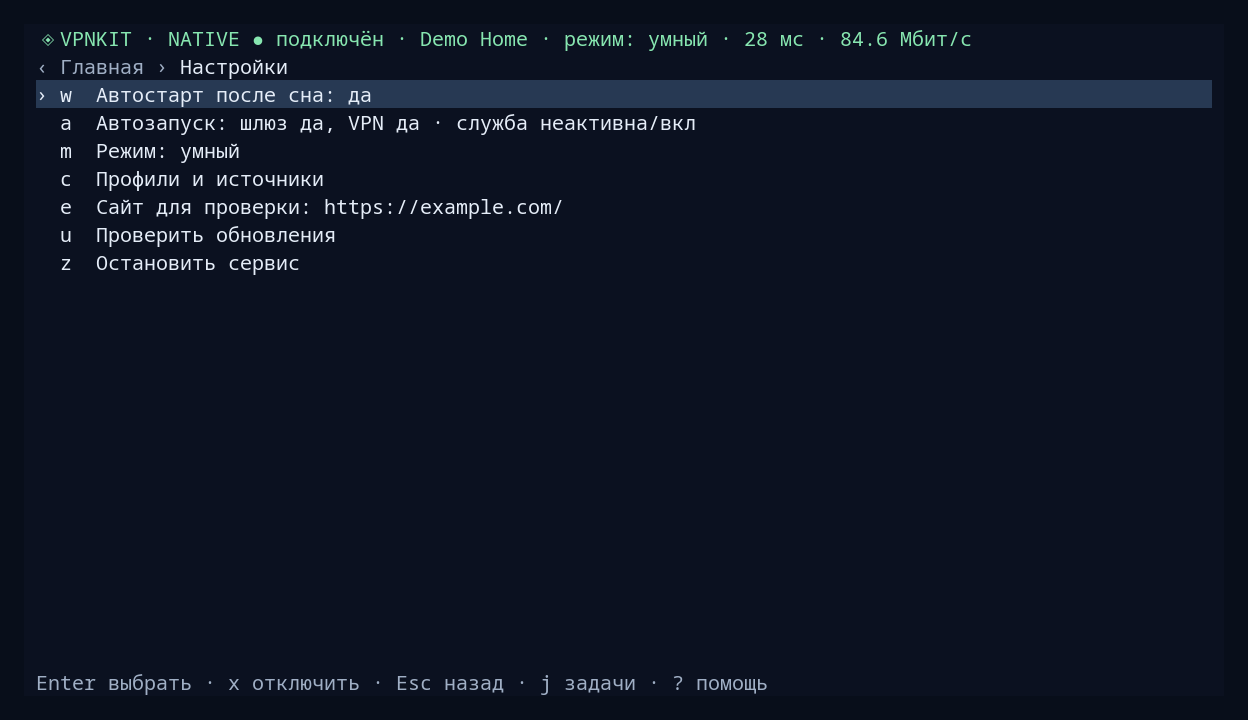
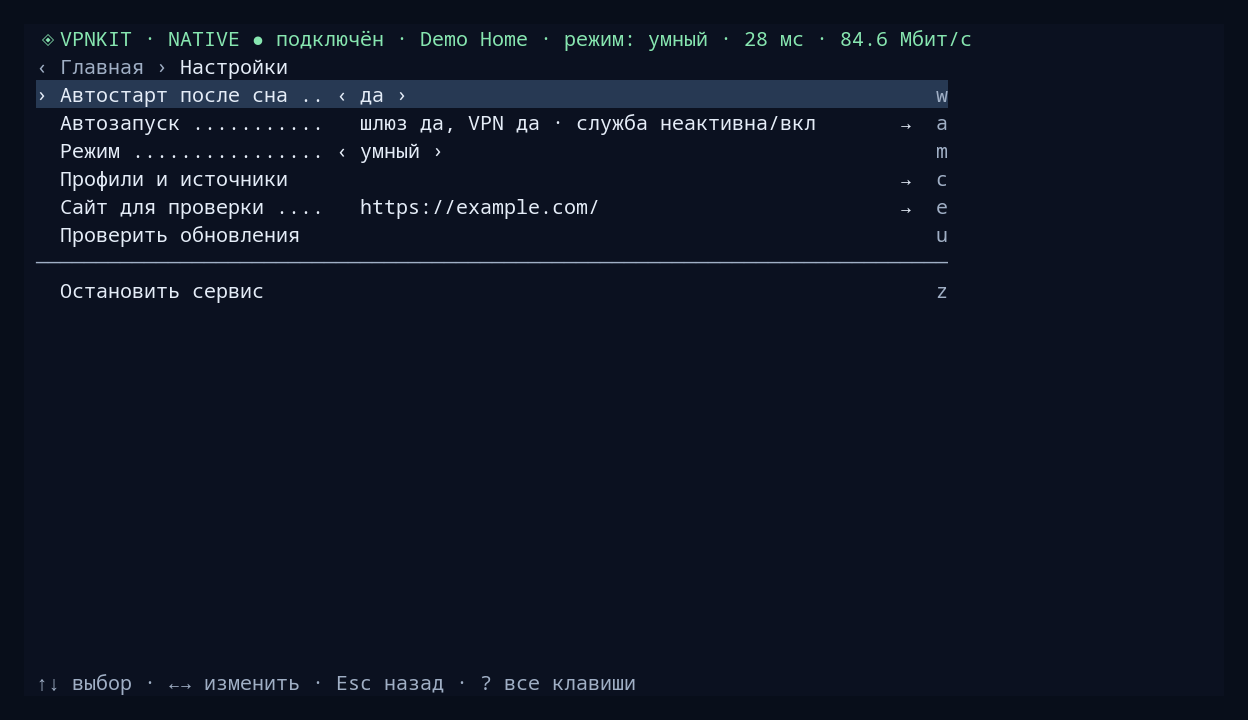
feat(tui): five centred home tiles without «Замеры»; refresh README captures

diff --git a/scripts/vpnkit/tui/home-view.ts b/scripts/vpnkit/tui/home-view.ts
@@ -1,7 +1,10 @@
 import { BoxRenderable, TextAttributes, TextRenderable, type CliRenderer } from "@opentui/core";
-import type { AppState } from "./app-state";
+import { HOME_TILES, type AppState } from "./app-state";
 import { cell, displayCheckAddress, pluralRu } from "./formatting";
 import { connection, palette as p } from "./model";
+
+const TILES = HOME_TILES.length;
+const LAST = TILES - 1;
 
 export class HomeView {
   private root: BoxRenderable;
@@ -15,7 +18,7 @@ export class HomeView {
     for (let i = 0; i < 6; i++) { const row = new BoxRenderable(renderer, { flexDirection: "row", flexShrink: 0 }); this.root.add(row); this.rows.push(row); }
     this.more = new TextRenderable(renderer, { content: "", height: 1, flexShrink: 0, fg: p.muted, visible: false });
     this.root.add(this.more);
-    for (let i = 0; i < 6; i++) {
+    for (let i = 0; i < TILES; i++) {
       const box = new BoxRenderable(renderer, { flexDirection: "column", flexGrow: 1, flexBasis: 0, minWidth: 0, border: true, borderStyle: "rounded", onMouseDown: e => { if (e.button === 0) activate(i); } });
       const title = new TextRenderable(renderer, { height: 1, fg: p.text, attributes: TextAttributes.BOLD }); box.add(title);
       const lines = [0, 1, 2, 3].map(() => { const line = new TextRenderable(renderer, { height: 1, fg: p.muted }); box.add(line); return line; });
@@ -25,7 +28,7 @@ export class HomeView {
   update(state: AppState, visible: boolean) {
     this.root.visible = visible;
     if (!visible) return;
-    const cols = state.homeColumns(), rowsTotal = Math.ceil(6 / cols);
+    const cols = state.homeColumns(), rowsTotal = Math.ceil(TILES / cols);
     // Full tiles take five rows, compact four, title-only three. Header, footer and
     // a two-line notice take four; when even title-only rows do not fit, scroll.
     const room = this.renderer.height - 2 - (state.noticeReserved() ? 2 : 0);
@@ -38,7 +41,7 @@ export class HomeView {
     if (selectedRow < this.firstRow) this.firstRow = selectedRow;
     if (selectedRow >= this.firstRow + visibleRows) this.firstRow = selectedRow - visibleRows + 1;
     this.firstRow = Math.max(0, Math.min(this.firstRow, rowsTotal - visibleRows));
-    const above = this.firstRow * cols, below = Math.max(0, 6 - (this.firstRow + visibleRows) * cols);
+    const above = this.firstRow * cols, below = Math.max(0, TILES - (this.firstRow + visibleRows) * cols);
     this.more.visible = !fitsAll;
     this.more.content = [above && `↑ ещё ${above}`, below && `↓ ещё ${below}`].filter(Boolean).join(" · ");
     const selected = state.catalogLoaded && !state.catalogStale ? state.servers.find(s => s.selected) : undefined;
@@ -50,16 +53,17 @@ export class HomeView {
     const actions = state.actions();
     const lifecycle = actions.find(a => ["home:connect", "home:start-service", "home:x"].includes(a.id));
     const lifecycleTask = [...state.tasks.values()].find(task => ["backend/start", "start", "disconnect", "stop"].includes(task.action));
-    const glyphs = ["▶", "≡", "•", "◇", "+", "*"];
+    const glyphs = ["▶", "≡", "◇", "+", "*"];
     const data = [
       ["Подключение", lifecycleTask ? state.actionLabel(lifecycleTask.action) : connection(state.status).title, `Enter — ${lifecycle?.label ?? "—"}`],
       ["Серверы", `${state.catalogLoaded && !state.catalogStale ? `${state.servers.length} ${pluralRu(state.servers.length, ["сервер", "сервера", "серверов"])}` : "— серверов"} · выбран: ${selected?.display_name ?? "—"}`, `Лучший ping: ${best ? `${best.display_name} · ${best.latency_ms} мс` : "—"}`],
-      ["Замеры", state.batch ? `Выполняется ${state.batch.done}/${state.batch.total}` : state.measurementAction ? "Выполняется замер" : "Замеров нет", `В очереди: ${state.queue.filter(q => q.kind === "batch" || q.kind === "home" || q.action.startsWith("servers/")).length}`],
       ["Профили", state.profiles ? `${state.profiles.items.length} ${pluralRu(state.profiles.items.length, ["профиль", "профиля", "профилей"])}` : "Профилей: —", `Активен: ${profile?.name ?? "—"}`],
       ["Диагностика", `Шлюз: ${health[gateway ?? ""] ?? "—"}`, `Сеть: ${state.status?.networkmanager_active === "yes" ? "активна" : state.status?.networkmanager_active === "no" ? "отключена" : "—"}`],
       ["Настройки", `Режим: ${mode} · автозапуск: ${state.autostart ? (state.autostart.connect ? "VPN" : state.autostart.gateway ? "шлюз" : "нет") : "—"}`, `Сайт: ${state.target ? displayCheckAddress(state.target) : "не задан"}`],
     ];
-    const width = Math.floor((this.renderer.width - 2) / cols) - 2;
+    // The last row may hold fewer tiles, which then grow wider.
+    const tileWidth = (i: number) => Math.floor((this.renderer.width - 2) / Math.min(cols, TILES - Math.floor(i / cols) * cols)) - 2;
+    const width = tileWidth(LAST);
     // Preserve the redacted address and complete status when extra rows are available.
     const wrap = (text: string): string[] => {
       const lines: string[] = [];
@@ -76,9 +80,9 @@ export class HomeView {
       if (line) lines.push(line);
       return lines;
     };
-    const settingsLines = compact ? [data[5]![1]!] : [...wrap(data[5]![1]!), ...wrap(data[5]![2]!)];
-    const extra = compact ? 0 : Math.min(2, Math.max(0, this.renderer.height - (6 / cols * 5) - 2), Math.max(0, settingsLines.length - 2));
-    this.rows.forEach((row, i) => { row.visible = i >= this.firstRow && i < this.firstRow + visibleRows; row.height = compact ? tileHeight : 5 + (i === Math.floor(5 / cols) ? extra : 0); });
+    const settingsLines = compact ? [data[LAST]![1]!] : [...wrap(data[LAST]![1]!), ...wrap(data[LAST]![2]!)];
+    const extra = compact ? 0 : Math.min(2, Math.max(0, this.renderer.height - (rowsTotal * 5) - 2), Math.max(0, settingsLines.length - 2));
+    this.rows.forEach((row, i) => { row.visible = i >= this.firstRow && i < this.firstRow + visibleRows; row.height = compact ? tileHeight : 5 + (i === Math.floor(LAST / cols) ? extra : 0); });
     // Rebuild every row when the column count changes: appending only the moved
     // tiles would leave them after the ones that stayed, out of navigation order.
     if (cols !== this.columns) {
@@ -87,13 +91,15 @@ export class HomeView {
       this.tiles.forEach((tile, i) => this.rows[Math.floor(i / cols)]!.add(tile.box));
     }
     this.tiles.forEach((tile, i) => {
-      tile.box.height = compact ? tileHeight : 5 + (Math.floor(i / cols) === Math.floor(5 / cols) ? extra : 0); tile.box.borderColor = i === state.homeIndex ? p.accent : p.edge;
-      const title = `${i === state.homeIndex ? "›" : " "} ${glyphs[i]} ${data[i]![0]!}`;
-      // Tiles are chosen with arrows; their letter shortcuts live in the «Клавиши» window.
-      tile.title.content = cell(title, width).trimEnd();
+      tile.box.height = compact ? tileHeight : 5 + (Math.floor(i / cols) === Math.floor(LAST / cols) ? extra : 0); tile.box.borderColor = i === state.homeIndex ? p.accent : p.edge;
+      // Centred tiles: the highlighted border and title colour mark the selection, so no cursor glyph.
+      // Letter shortcuts are not drawn; they live in the «Клавиши» window.
+      const own = tileWidth(i);
+      const center = (text: string) => { const fitted = cell(text, own).trimEnd(); return " ".repeat(Math.max(0, Math.floor((own - Bun.stringWidth(fitted)) / 2))) + fitted; };
+      tile.title.content = center(`${glyphs[i]} ${data[i]![0]!}`);
       tile.title.fg = i === state.homeIndex ? p.accent : p.text;
-      const lines = i === 5 && extra ? settingsLines : data[i]!.slice(1);
-      tile.lines.forEach((line, n) => { line.visible = n < (compact ? tileHeight - 3 : 2 + (Math.floor(i / cols) === Math.floor(5 / cols) ? extra : 0)) && n < lines.length; line.content = cell(lines[n] ?? "", width).trimEnd(); });
+      const lines = i === LAST && extra ? settingsLines : data[i]!.slice(1);
+      tile.lines.forEach((line, n) => { line.visible = n < (compact ? tileHeight - 3 : 2 + (Math.floor(i / cols) === Math.floor(LAST / cols) ? extra : 0)) && n < lines.length; line.content = center(lines[n] ?? ""); });
     });
   }
 }

diff --git a/scripts/vpnkit/tui/tile-home-presentation.test.ts b/scripts/vpnkit/tui/tile-home-presentation.test.ts
@@ -12,11 +12,11 @@ for (const [width, height] of [[100,35],[60,16]] as const) test(`home tiles fit 
     app.profiles = { active: "a", items: [{ id: "a", name: "Дом", kind: "subscription", count: 2, stale: false }] };
     app.autostart = { gateway: true, connect: true }; app.paint(); await t.renderOnce();
     const frame = t.captureCharFrame();
-    for (const title of ["Подключение", "Серверы", "Замеры", "Профили", "Диагностика", "Настройки"]) expect(frame.split(title)).toHaveLength(2);
-    expect(frame).toContain("› ▶ Подключение");
+    for (const title of ["Подключение", "Серверы", "Профили", "Диагностика", "Настройки"]) expect(frame.split(title)).toHaveLength(2);
+    expect(frame).toContain("▶ Подключение"); expect(frame).not.toContain("Замеры"); expect(frame).not.toContain("› ▶");
     for (const glyph of ["▶", "≡", "•", "◇", "+", "*"]) expect(Bun.stringWidth(glyph)).toBe(1);
     // Tiles are chosen with arrows; no letter shortcut is drawn on them.
-    for (const title of ["Подключение", "Серверы", "Замеры", "Профили", "Диагностика", "Настройки"]) {
+    for (const title of ["Подключение", "Серверы", "Профили", "Диагностика", "Настройки"]) {
       const line = frame.split("\n").find(line => line.includes(title))!;
       expect(line.slice(line.indexOf(title)).split("│")[0]).toMatch(new RegExp(`${title} *$`));
     }
@@ -63,7 +63,7 @@ test("profiles tile shows no letter", async () => {
 
 test("tiles stay in navigation order after a resize between layouts", async () => {
   const t = await createTestRenderer({ width: 100, height: 35 }); const app = new App(t.renderer, new FakeBackend());
-  const order = (frame: string) => ["Подключение", "Серверы", "Замеры", "Профили", "Диагностика", "Настройки"]
+  const order = (frame: string) => ["Подключение", "Серверы", "Профили", "Диагностика", "Настройки"]
     .map(title => { const lines = frame.split("\n"); const row = lines.findIndex(line => line.includes(title)); return [row, lines[row]!.indexOf(title)] as const; });
   try {
     await app.perform("status"); await t.renderOnce();
@@ -72,13 +72,12 @@ test("tiles stay in navigation order after a resize between layouts", async () =
       const columns = width >= 90 ? 3 : 2, cells = order(t.captureCharFrame());
       cells.forEach(([row, column], i) => {
         expect(row).toBe(cells[i - i % columns]![0]);
-        expect(column).toBe(cells[i % columns]![1]);
         if (i % columns) expect(column).toBeGreaterThan(cells[i - 1]![1]);
         if (i >= columns) expect(row).toBeGreaterThan(cells[i - columns]![0]);
       });
     }
     t.resize(80, 35); await Bun.sleep(40); app.paint(); await t.renderOnce();
     app.homeIndex = 0; t.mockInput.pressArrow("down"); await Bun.sleep(40); await t.renderOnce();
-    expect(t.captureCharFrame()).toContain("› • Замеры");
+    expect(app.homeIndex).toBe(2); expect(t.captureCharFrame()).toContain("◇ Профили");
   } finally { await app.close(); }
 });

diff --git a/scripts/vpnkit/tui/app-state.ts b/scripts/vpnkit/tui/app-state.ts
@@ -22,6 +22,8 @@ export type Screen =
   | "diagnostics"
   | "target"
   | "confirm";
+/** Screens behind the home tiles, in tile order; the first tile is the connection action. */
+export const HOME_TILES = ["", "servers", "profiles", "diagnostics", "settings"] as const;
 export const overlayScreens: readonly Screen[] = ["server-rename", "autostart", "details", "confirm", "cancel-confirm", "retry-confirm", "profile-remove", "tasks", "recovery", "subscription", "target", "profile-name", "profile-source"];
 export const isOverlay = (screen: Screen) => overlayScreens.includes(screen);
 export type Batch = "ping" | "speed" | "availability";
@@ -593,7 +595,7 @@ export class AppState {
       return;
     }
     if (isOverlay(screen) && !isOverlay(this.screen)) this.overlayBase = this.screen === "home" ? "home" : this.tab;
-    const tile = ["", "servers", "tasks", "profiles", "diagnostics", "settings"].indexOf(screen);
+    const tile = HOME_TILES.indexOf(screen as typeof HOME_TILES[number]);
     if (tile > 0) this.homeIndex = tile;
     if (this.screen === "subscription") this.draft = this.editorValue;
     this.filterEditing = false;
@@ -648,16 +650,15 @@ export class AppState {
     const columns = this.homeColumns();
     const row = Math.floor(this.homeIndex / columns), col = this.homeIndex % columns;
     if (key === "home") this.homeIndex = 0;
-    else if (key === "end") this.homeIndex = 5;
+    else if (key === "end") this.homeIndex = HOME_TILES.length - 1;
     else if (key === "left" && col > 0) this.homeIndex--;
-    else if (key === "right" && col < columns - 1 && this.homeIndex < 5) this.homeIndex++;
+    else if (key === "right" && col < columns - 1 && this.homeIndex < HOME_TILES.length - 1) this.homeIndex++;
     else if (key === "up" && row > 0) this.homeIndex -= columns;
-    else if (key === "down" && this.homeIndex + columns < 6) this.homeIndex += columns;
+    else if (key === "down" && this.homeIndex + columns < HOME_TILES.length) this.homeIndex += columns;
     this.paint();
   }
   activateHome() {
-    const target = [undefined, "servers", "tasks", "profiles", "diagnostics", "settings"] as const;
-    if (this.homeIndex) { this.open(target[this.homeIndex]!); return; }
+    if (this.homeIndex) { this.open(HOME_TILES[this.homeIndex] as Screen); return; }
     const action = this.actions().find(item => ["home:connect", "home:start-service", "home:x"].includes(item.id));
     if (action?.available) action.run();
     else if (action?.unavailableBehavior === "notice" && action.unavailableReason) this.notify(action.unavailableReason, true);

diff --git a/scripts/vpnkit/tui/tile-home.test.ts b/scripts/vpnkit/tui/tile-home.test.ts
@@ -4,20 +4,20 @@ import { FakeBackend, initial } from "./app-test-fixtures";
 const key = (state: AppState, name: string) => state.onKey({ name, preventDefault() {} });
 
 for (const [width, height, steps] of [
-  [100, 24, [["left",0],["up",0],["right",1],["right",2],["right",2],["down",5],["right",5],["down",5],["left",4],["up",1],["home",0],["end",5]]] as const,
-  [60, 24, [["left",0],["up",0],["right",1],["right",1],["down",3],["down",5],["down",5],["left",4],["up",2],["home",0],["end",5]]] as const,
-  [50, 30, [["left",0],["up",0],["right",0],["down",1],["down",2],["right",2],["end",5],["down",5],["up",4],["home",0],["end",5]]] as const,
+  [100, 24, [["left",0],["up",0],["right",1],["right",2],["right",2],["down",2],["left",1],["down",4],["right",4],["up",1],["home",0],["end",4]]] as const,
+  [60, 24, [["left",0],["up",0],["right",1],["right",1],["down",3],["down",3],["left",2],["down",4],["right",4],["up",2],["home",0],["end",4]]] as const,
+  [50, 30, [["left",0],["up",0],["right",0],["down",1],["down",2],["right",2],["end",4],["down",4],["up",3],["home",0],["end",4]]] as const,
 ] as const) test(`home navigation clamps in two dimensions at ${width}x${height}`, async () => {
   const state = new AppState(new FakeBackend());
   state.viewport = () => ({ width, height, terminalHeight: height });
-  try { expect(state.screen).toBe("home"); for (const [name, index] of steps) { key(state, name); expect(state.homeIndex).toBe(index); } key(state, "escape"); expect(state.screen).toBe("home"); expect(state.homeIndex).toBe(5); }
+  try { expect(state.screen).toBe("home"); for (const [name, index] of steps) { key(state, name); expect(state.homeIndex).toBe(index); } key(state, "escape"); expect(state.screen).toBe("home"); expect(state.homeIndex).toBe(4); }
   finally { await state.close(); }
 });
 
 test("each section tile opens its section and returns to the same tile", async () => {
   const state = new AppState(new FakeBackend()); state.status = { ...initial };
   try {
-    for (const [index, screen] of [[1,"servers"],[2,"tasks"],[3,"profiles"],[4,"diagnostics"],[5,"settings"]] as const) {
+    for (const [index, screen] of [[1,"servers"],[2,"profiles"],[3,"diagnostics"],[4,"settings"]] as const) {
       state.homeIndex = index; key(state, "return"); expect(state.screen).toBe(screen); key(state, "escape"); expect(state.screen).toBe("home"); expect(state.homeIndex).toBe(index);
     }
   } finally { await state.close(); }

diff --git a/scripts/vpnkit/tui/shell-presentation.test.ts b/scripts/vpnkit/tui/shell-presentation.test.ts
@@ -65,7 +65,7 @@ test("shell: a narrow tall terminal stacks home tiles in one column", async () =
   try {
     app.open("home", false); app.homeIndex = 0; app.notice = ""; app.paint(); await t.renderOnce();
     const lines = t.captureCharFrame().split("\n");
-    for (const title of ["Подключение", "Серверы", "Замеры", "Профили", "Диагностика", "Настройки"])
+    for (const title of ["Подключение", "Серверы", "Профили", "Диагностика", "Настройки"])
       expect(lines.filter(line => line.includes(title) && line.includes("│"))).toHaveLength(1);
     expect(lines.findIndex(line => line.includes("Серверы"))).toBeGreaterThan(lines.findIndex(line => line.includes("Подключение")));
     app.onKey({ name: "down", preventDefault() {} }); expect(app.homeIndex).toBe(1);
@@ -86,7 +86,7 @@ test("shell: a short home grid scrolls to the selected tile and counts hidden ti
     expect(frame).toContain("Подключение"); expect(frame).not.toContain("Настройки"); expect(frame).toMatch(/↓ ещё \d/);
     app.onKey({ name: "end", preventDefault() {} }); await t.renderOnce();
     frame = t.captureCharFrame();
-    expect(frame).toContain("› * Настройки"); expect(frame).not.toContain("Подключение"); expect(frame).toMatch(/↑ ещё \d/); expect(frame).not.toContain("↓ ещё");
+    expect(frame).toContain("* Настройки"); expect(frame).not.toContain("Подключение"); expect(frame).toMatch(/↑ ещё \d/); expect(frame).not.toContain("↓ ещё");
   } finally { await app.close(); }
 });
 

diff --git a/scripts/vpnkit/tui/action-registry.ts b/scripts/vpnkit/tui/action-registry.ts
@@ -1,4 +1,4 @@
-import { isOverlay, type AppKeyEvent, type AppState, type Screen } from "./app-state";
+import { HOME_TILES, isOverlay, type AppKeyEvent, type AppState, type Screen } from "./app-state";
 import { compatible } from "./request-policy";
 import { MIN_COLS, MIN_ROWS } from "./model";
 import type { ActionDefinition, ActionScope } from "./menu-actions";
@@ -153,7 +153,7 @@ export function actionRegistry(state: AppState, rowActions = false, underlying =
   if (state.screen === "home") {
     for (const key of ["left", "right", "up", "down", "home", "end"]) {
       const cols = state.homeColumns(), i = state.homeIndex;
-      const blocked = key === "left" ? i % cols === 0 : key === "right" ? i % cols === cols - 1 || i === 5 : key === "up" ? i < cols : key === "down" ? i + cols >= 6 : key === "home" ? i === 0 : i === 5;
+      const blocked = key === "left" ? i % cols === 0 : key === "right" ? i % cols === cols - 1 || i === HOME_TILES.length - 1 : key === "up" ? i < cols : key === "down" ? i + cols >= HOME_TILES.length : key === "home" ? i === 0 : i === HOME_TILES.length - 1;
       add(`tile:${key}`, [key], "Выбор", "home", () => state.moveHome(key), blocked ? "Край сетки." : undefined, "none", true);
     }
     const lifecycleAction = actions.find(action => ["home:connect", "home:start-service", "home:x"].includes(action.id));

diff --git a/scripts/vpnkit/tui/app-presentation.test.ts b/scripts/vpnkit/tui/app-presentation.test.ts
@@ -61,9 +61,9 @@ test("shell has clickable home tiles and a section breadcrumb", async () => {
   try {
     await app.perform("status"); await t.renderOnce();
     const frame = t.captureCharFrame();
-    for (const label of ["Подключение", "Серверы", "Замеры", "Профили", "Диагностика", "Настройки"]) expect(frame.split(label)).toHaveLength(2);
+    for (const label of ["Подключение", "Серверы", "Профили", "Диагностика", "Настройки"]) expect(frame.split(label)).toHaveLength(2);
     const row = frame.split("\n").findIndex(line => line.includes("Диагностика"));
-    await t.mockMouse.click(5, row); await t.renderOnce();
+    await t.mockMouse.click(frame.split("\n")[row]!.indexOf("Диагностика"), row); await t.renderOnce();
     expect(t.captureCharFrame()).toContain("‹ Главная › Диагностика");
     expect(t.captureCharFrame()).toContain("OpenVPN / KDE");
   } finally { await app.close(); }

diff --git a/scripts/vpnkit/tui/menu-view.ts b/scripts/vpnkit/tui/menu-view.ts
@@ -51,6 +51,7 @@ export class MenuView {
       this.indices[i] = index;
       row.visible = line !== undefined;
       row.backgroundColor = index === selected ? p.edge : p.base;
+      row.width = width;
       if (line === undefined) return;
       const label = this.labels[i];
       label.fg = typeof line === "string" ? p.muted : p.text;

diff --git a/README.md b/README.md
@@ -47,7 +47,7 @@ kvpn
 
 ## Начать пользоваться
 
-После запуска открывается главный экран с плитками «Подключение», «Серверы», «Замеры», «Профили», «Диагностика» и «Настройки». Стрелками выберите плитку, `Enter` открывает раздел или выполняет действие подключения; `Esc` возвращает из раздела на главный экран. Вложенные окна и меню сначала закрываются по `Esc`; в таблице серверов эта клавиша сначала очищает фильтр. Строка навигации показывает путь к разделу; `Tab` / `Shift+Tab` переключают разделы «Серверы», «Профили», «Диагностика» и «Настройки».
+После запуска открывается главный экран с плитками «Подключение», «Серверы», «Профили», «Диагностика» и «Настройки». Стрелками выберите плитку, `Enter` открывает раздел или выполняет действие подключения; `Esc` возвращает из раздела на главный экран. Вложенные окна и меню сначала закрываются по `Esc`; в таблице серверов эта клавиша сначала очищает фильтр. Строка навигации показывает путь к разделу; `Tab` / `Shift+Tab` переключают разделы «Серверы», «Профили», «Диагностика» и «Настройки».
 
 Для первого подключения нажмите `c` и добавьте подписку или ссылку. Если служба остановлена, запустите её через плитку «Подключение» или `s`. Откройте «Серверы», при необходимости обновите список (`r`), выберите строку и нажмите `Enter`. В меню выберите «Выбрать сервер» и подтвердите: по умолчанию выбрано «Нет», между кнопками перемещают стрелки влево/вправо. Затем вернитесь на главный экран и выберите «Подключение» или нажмите `s`. В установленном native с настроенной подпиской `c` открывает профили.
 

diff --git a/docs/guide.ru.md b/docs/guide.ru.md
@@ -55,7 +55,7 @@ kvpn
 
 ## Первое подключение
 
-После запуска открывается главный экран с плитками «Подключение», «Серверы», «Замеры», «Профили», «Диагностика» и «Настройки». Стрелками выберите плитку, `Enter` открывает раздел или выполняет действие подключения; `Esc` возвращает из раздела на главный экран. Вложенные окна и меню сначала закрываются по `Esc`; в таблице серверов эта клавиша сначала очищает фильтр. Строка навигации показывает путь к разделу; `Tab` / `Shift+Tab` переключают разделы «Серверы», «Профили», «Диагностика» и «Настройки».
+После запуска открывается главный экран с плитками «Подключение», «Серверы», «Профили», «Диагностика» и «Настройки». Стрелками выберите плитку, `Enter` открывает раздел или выполняет действие подключения; `Esc` возвращает из раздела на главный экран. Вложенные окна и меню сначала закрываются по `Esc`; в таблице серверов эта клавиша сначала очищает фильтр. Строка навигации показывает путь к разделу; `Tab` / `Shift+Tab` переключают разделы «Серверы», «Профили», «Диагностика» и «Настройки».
 
 1. Нажмите `c` и добавьте первую подписку или одиночную ссылку на сервер. После настройки установленного native `c` открывает профили.
 2. Если служба остановлена, запустите её через плитку **Подключение** или `s`. Откройте **Серверы** (`v`); при необходимости обновите список (`r`).

diff --git a/README.en.md b/README.en.md
@@ -47,7 +47,7 @@ Without a package manager: [portable bundle](docs/portable-installer.md).
 
 ## Get connected
 
-The interface opens on a home screen with Connection («Подключение»), Servers («Серверы»), Measurements («Замеры»), Profiles («Профили»), Diagnostics («Диагностика») and Settings («Настройки») tiles. Use the arrow keys to choose a tile and `Enter` to open a section or perform the connection action; `Esc` returns from a section to home. In nested screens and menus `Esc` closes those first; in the server table it first clears a filter. A breadcrumb shows the path to the section; `Tab` / `Shift+Tab` cycle through Servers, Profiles, Diagnostics and Settings.
+The interface opens on a home screen with Connection («Подключение»), Servers («Серверы»), Profiles («Профили»), Diagnostics («Диагностика») and Settings («Настройки») tiles. Use the arrow keys to choose a tile and `Enter` to open a section or perform the connection action; `Esc` returns from a section to home. In nested screens and menus `Esc` closes those first; in the server table it first clears a filter. A breadcrumb shows the path to the section; `Tab` / `Shift+Tab` cycle through Servers, Profiles, Diagnostics and Settings.
 
 For the first connection, press `c` and add a subscription or link. If the service is stopped, start it using the Connection tile or `s`. Open Servers, refresh the list if needed (`r`), choose a row and press `Enter`. Choose Select server («Выбрать сервер») from the menu and confirm: No («Нет») is selected by default, and Left/Right move between the buttons. Then return home and choose Connection or press `s`. In installed native mode with a configured subscription, `c` opens Profiles.
 

diff --git a/docs/guide.en.md b/docs/guide.en.md
@@ -55,7 +55,7 @@ kvpn
 
 ## First connection
 
-The interface opens on a home screen with Connection («Подключение»), Servers («Серверы»), Measurements («Замеры»), Profiles («Профили»), Diagnostics («Диагностика») and Settings («Настройки») tiles. Use the arrow keys to choose a tile and `Enter` to open a section or perform the connection action; `Esc` returns from a section to home. In nested screens and menus `Esc` closes those first; in the server table it first clears a filter. A breadcrumb shows the path to the section; `Tab` / `Shift+Tab` cycle through Servers, Profiles, Diagnostics and Settings.
+The interface opens on a home screen with Connection («Подключение»), Servers («Серверы»), Profiles («Профили»), Diagnostics («Диагностика») and Settings («Настройки») tiles. Use the arrow keys to choose a tile and `Enter` to open a section or perform the connection action; `Esc` returns from a section to home. In nested screens and menus `Esc` closes those first; in the server table it first clears a filter. A breadcrumb shows the path to the section; `Tab` / `Shift+Tab` cycle through Servers, Profiles, Diagnostics and Settings.
 
 1. Press `c` and add the first subscription or an individual server link. Once installed native mode is configured, `c` opens Profiles («Профили»).
 2. If the service is stopped, start it using the **Connection** tile or `s`. Open **Servers** (`v`, «Серверы»); refresh the list if needed (`r`).
